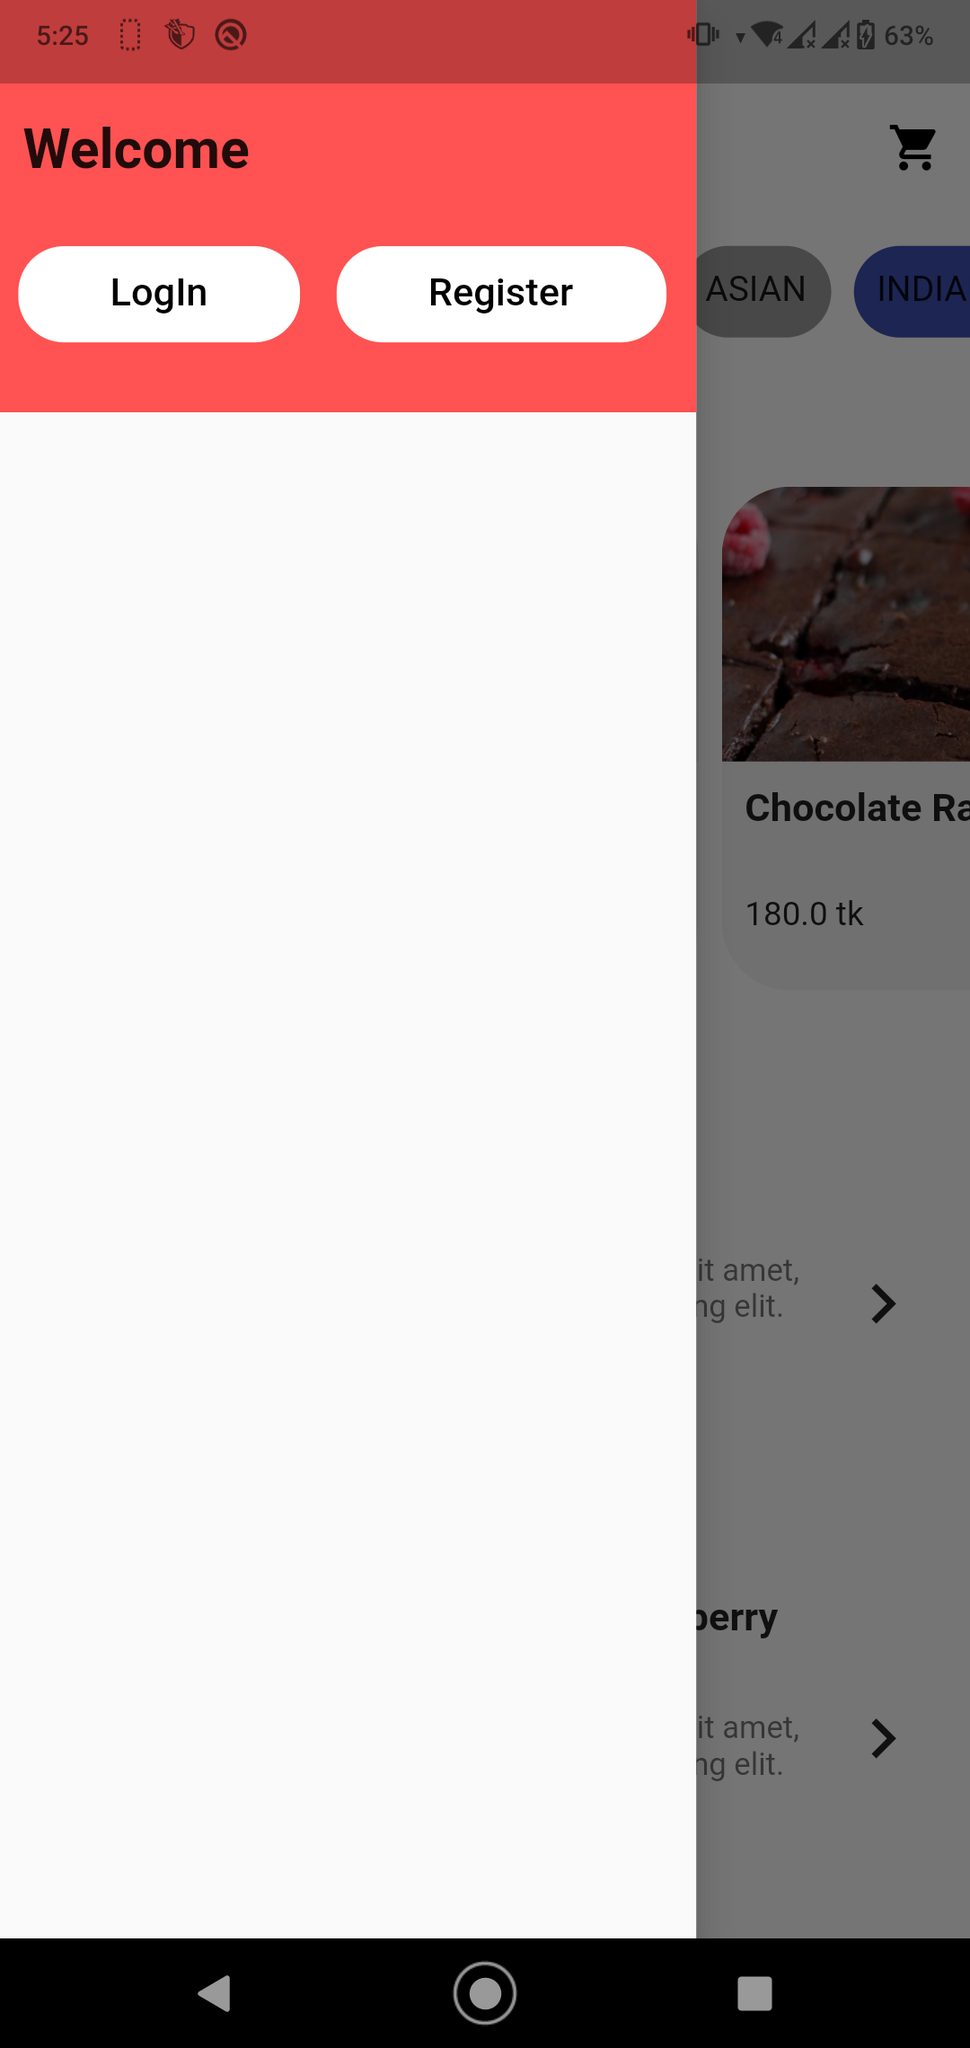
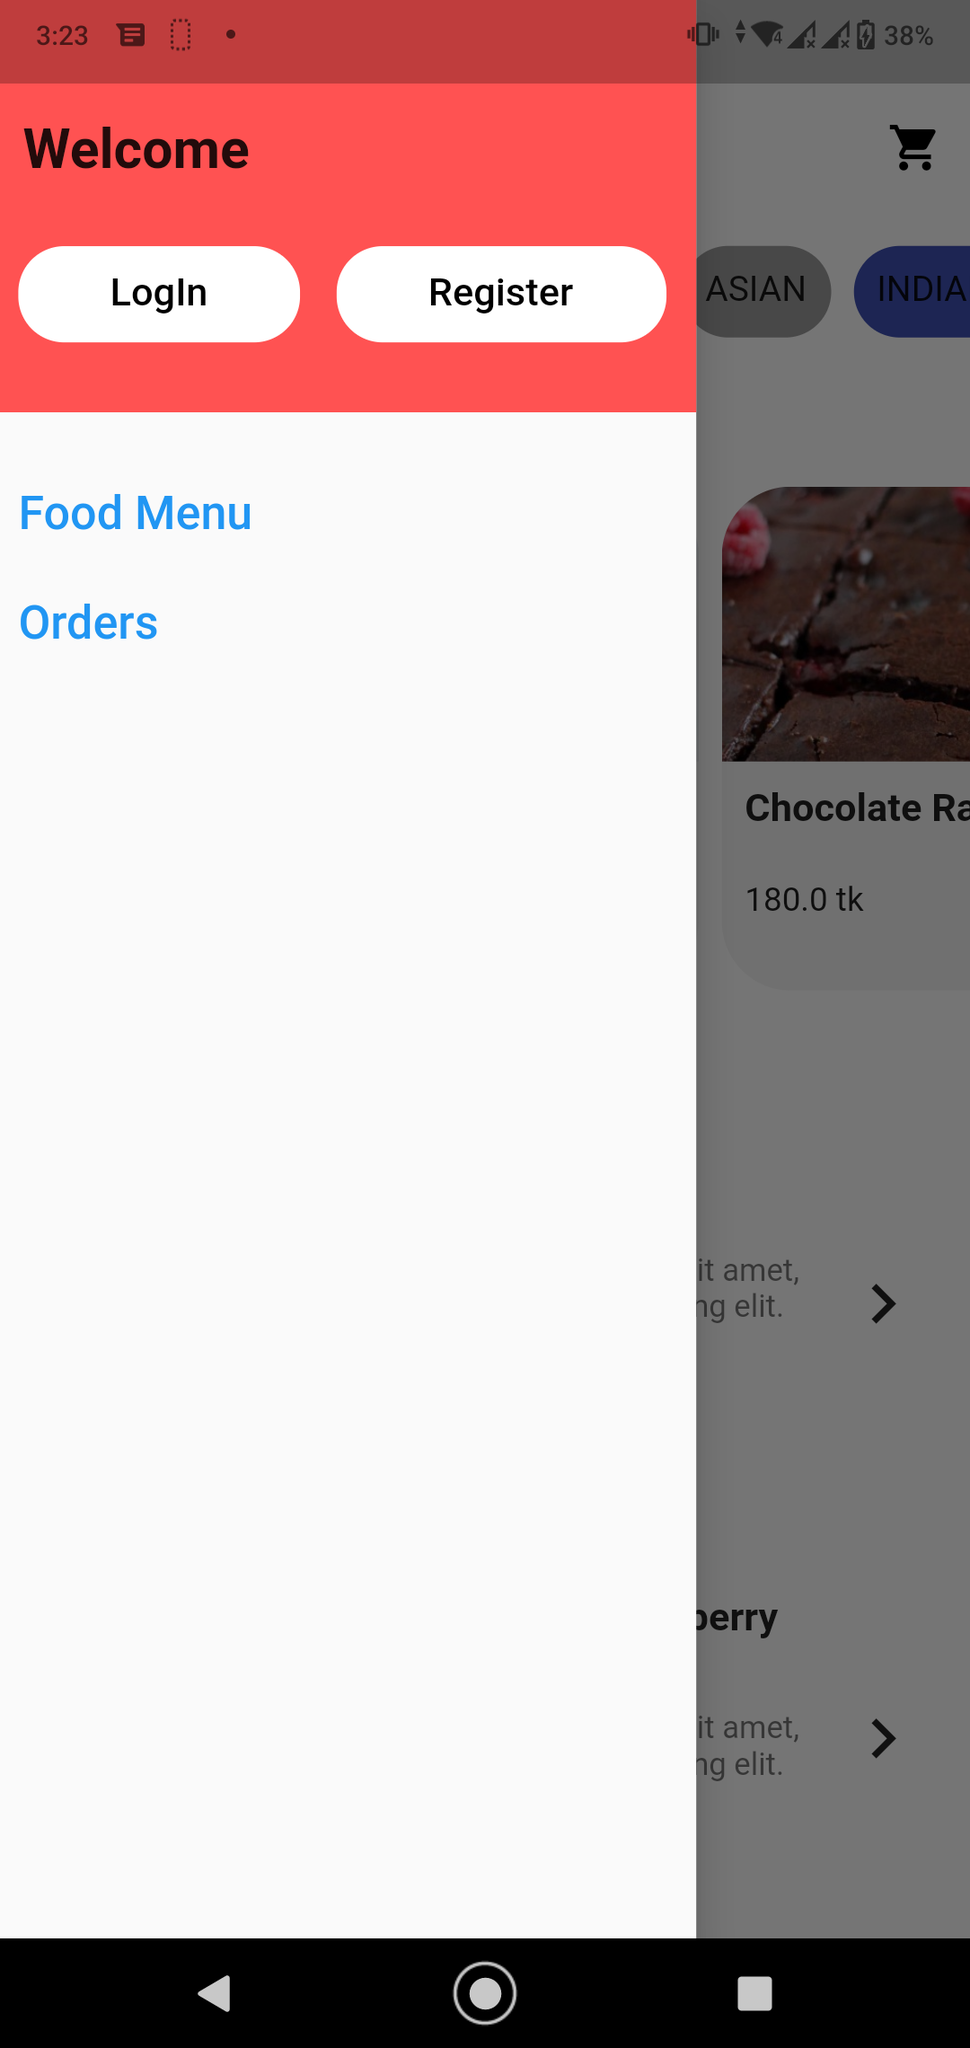
food order app

diff --git a/lib/widgets/order_list.dart b/lib/widgets/order_list.dart
@@ -1,0 +1,70 @@
+import 'dart:math';
+
+import 'package:flutter/material.dart';
+import 'package:food_order_app/providers/order_provider.dart';
+import 'package:intl/intl.dart';
+
+
+class OrderItemList extends StatefulWidget {
+  final OrderItem order;
+
+  OrderItemList(this.order);
+
+  @override
+  State<OrderItemList> createState() => _OrderItemListState();
+}
+
+class _OrderItemListState extends State<OrderItemList> {
+  var _expanded = false;
+
+  @override
+  Widget build(BuildContext context) {
+    return Card(
+      margin: EdgeInsets.all(10),
+      child: Column(
+        children: [
+          ListTile(
+            title: Text('\$${widget.order.amount.toStringAsFixed(2)}'),
+            subtitle: Text(DateFormat('dd/MM/yyyy  ')
+                .add_jms()
+                .format(widget.order.dateTime)),
+            trailing: IconButton(
+              icon: Icon(_expanded ? Icons.expand_less : Icons.expand_more),
+              onPressed: () {
+                setState(() {
+                  _expanded = !_expanded;
+                });
+              },
+            ),
+          ),
+          if (_expanded)
+            Container(
+              padding: const EdgeInsets.symmetric(horizontal: 15, vertical: 4),
+              height: min(widget.order.products.length * 20 + 30, 100),
+              child: ListView.builder(
+                  itemCount: widget.order.products.length,
+                  itemBuilder: (ctx, i) {
+                    return Row(
+                      mainAxisAlignment: MainAxisAlignment.spaceBetween,
+                      children: [
+                        Text(
+                          widget.order.products[i].title,
+                          style: const TextStyle(
+                              fontSize: 18, fontWeight: FontWeight.bold),
+                        ),
+                        Text(
+                          '${widget.order.products[i].quantity} x \$${widget.order.products[i].price}',
+                          style: const TextStyle(
+                            fontSize: 18,
+                            color: Colors.grey,
+                          ),
+                        )
+                      ],
+                    );
+                  }),
+            )
+        ],
+      ),
+    );
+  }
+}

diff --git a/lib/widgets/popular_dish.dart b/lib/widgets/popular_dish.dart
@@ -9,7 +9,7 @@ class PopularDish extends StatelessWidget {
   @override
   Widget build(BuildContext context) {
     final mealItem = Provider.of<MealItemsProvider>(context, listen: false);
-    final cat = mealItem.showCategory('c1');
+    // print(mealItem.categoryProperties('m1'));
     return SizedBox(
       height: 230,
       child: ListView.builder(
@@ -65,18 +65,16 @@ class PopularDish extends StatelessWidget {
                               '${mealItem.popularItems[i].price} tk',
                               style: const TextStyle(fontSize: 17),
                             ),
-                            Container(
-                              // height: 30,
-                              decoration: BoxDecoration(
-                                  // color: mealItem.popularItems[i].category.map((i) => null),
-                                  borderRadius: BorderRadius.circular(10)),
-                              child: Padding(
-                                padding: const EdgeInsets.all(8.0),
-                                child: Text(mealItem.popularItems[i].category
-                                    .map((cat) => cat)
-                                    .toString()),
-                              ),
-                            )
+                            // Container(
+                            //   // height: 30,
+                            //   decoration: BoxDecoration(
+                            //       // color: mealItem.popularItems[i].category.map((i) => null),
+                            //       borderRadius: BorderRadius.circular(10)),
+                            //   child: Padding(
+                            //     padding: const EdgeInsets.all(8.0),
+                            //     child: Text(mealItem.categoryProperties(mealItem.popularItems[i])[0].toString()),
+                            //   ),
+                            // )
                           ],
                         )
                       ],

diff --git a/lib/widgets/app_drawer.dart b/lib/widgets/app_drawer.dart
@@ -1,4 +1,6 @@
 import 'package:flutter/material.dart';
+import 'package:food_order_app/pages/home_page.dart';
+import 'package:food_order_app/pages/orders_page.dart';
 import 'package:food_order_app/widgets/user_button.dart';
 
 class AppDrawer extends StatelessWidget {
@@ -6,6 +8,7 @@ class AppDrawer extends StatelessWidget {
   Widget build(BuildContext context) {
     return Drawer(
       child: Column(
+        crossAxisAlignment: CrossAxisAlignment.start,
         children: [
           Container(
             height: 180,
@@ -30,9 +33,32 @@ class AppDrawer extends StatelessWidget {
                     ProfileButton('LogIn'),
                     ProfileButton('Register')
                   ],
-                )
+                ),
               ],
             ),
+          ),
+          const SizedBox(
+            height: 20,
+          ),
+          TextButton(
+              onPressed: () {
+                Navigator.of(context).pushReplacementNamed('/');
+              },
+              child: const Text('Food Menu',
+                style: TextStyle(
+                  fontSize: 24
+                ),
+              )
+          ),
+          TextButton(
+              onPressed: () {
+                Navigator.of(context).pushReplacementNamed(OrdersPage.routName);
+              },
+              child: const Text('Orders',
+                style: TextStyle(
+                  fontSize: 24
+                )
+              )
           )
         ],
       ),

diff --git a/lib/main.dart b/lib/main.dart
@@ -3,8 +3,10 @@ import 'package:food_order_app/pages/cart_page.dart';
 import 'package:food_order_app/pages/category_menu.dart';
 import 'package:food_order_app/pages/home_page.dart';
 import 'package:food_order_app/pages/meal_list_page.dart';
+import 'package:food_order_app/pages/orders_page.dart';
 import 'package:food_order_app/providers/cart_providers.dart';
 import 'package:food_order_app/providers/meal_providers.dart';
+import 'package:food_order_app/providers/order_provider.dart';
 import 'package:food_order_app/widgets/food_details.dart';
 import 'package:provider/provider.dart';
 
@@ -17,6 +19,7 @@ class MyApp extends StatelessWidget {
       providers: [
         ChangeNotifierProvider(create: (ctx) => MealItemsProvider()),
         ChangeNotifierProvider(create: (ctx) => CartProvider()),
+        ChangeNotifierProvider(create: (ctx) => OrdersProvider())
       ],
       child: MaterialApp(
           debugShowCheckedModeBanner: false,
@@ -25,7 +28,8 @@ class MyApp extends StatelessWidget {
           routes: {
             FoodDetails.routeName: (ctx) => FoodDetails(),
             CartPage.routeName: (ctx) => CartPage(),
-            CategoryMenu.routeName: (ctx) => CategoryMenu()
+            CategoryMenu.routeName: (ctx) => CategoryMenu(),
+            OrdersPage.routName: (ctx) => OrdersPage()
           }),
     );
   }

diff --git a/lib/pages/cart_page.dart b/lib/pages/cart_page.dart
@@ -1,5 +1,7 @@
 import 'package:flutter/material.dart';
 import 'package:food_order_app/providers/cart_providers.dart';
+import 'package:food_order_app/providers/order_provider.dart';
+import 'package:food_order_app/theme/colors.dart';
 import 'package:food_order_app/widgets/cart_item.dart';
 import 'package:provider/provider.dart';
 
@@ -9,9 +11,29 @@ class CartPage extends StatelessWidget {
   @override
   Widget build(BuildContext context) {
     final cart = Provider.of<CartProvider>(context);
+    final order = Provider.of<OrdersProvider>(context, listen: false);
     return Scaffold(
       appBar: AppBar(
         title: const Text('Your Orders'),
+        actions: [
+          TextButton(
+            onPressed: () {
+              if (cart.totalAmount > 0) {
+                order.addOrder(cart.items.values.toList(), cart.totalAmount);
+                  cart.clear();
+              } else {
+                ScaffoldMessenger.of(context).showSnackBar(
+                  const SnackBar(content: Text('Add minimum one item to cart')));
+              }
+              },
+              child: const Text('Order Now',
+                style: TextStyle(
+                  color: white,
+                  fontSize: 20
+                ),
+              )
+          )
+        ],
       ),
       body: Column(
         children: [

diff --git a/lib/providers/order_provider.dart b/lib/providers/order_provider.dart
@@ -1,0 +1,34 @@
+import 'package:flutter/material.dart';
+import 'cart_providers.dart';
+
+class OrderItem {
+  final String id;
+  final double amount;
+  final List<Cart> products;
+  final DateTime dateTime;
+
+  OrderItem(
+      {required this.id,
+      required this.amount,
+      required this.products,
+      required this.dateTime});
+}
+
+class OrdersProvider with ChangeNotifier {
+  final List<OrderItem> _orders = [];
+
+  List<OrderItem> get orders {
+    return [..._orders];
+  }
+
+  void addOrder(List<Cart> cartProducts, double total) {
+    _orders.insert(
+        0,
+        OrderItem(
+            id: DateTime.now().toString(),
+            amount: total,
+            products: cartProducts,
+            dateTime: DateTime.now()));
+    notifyListeners();
+  }
+}

diff --git a/lib/pages/orders_page.dart b/lib/pages/orders_page.dart
@@ -1,0 +1,25 @@
+import 'package:flutter/material.dart';
+import 'package:food_order_app/providers/order_provider.dart';
+import 'package:food_order_app/widgets/app_drawer.dart';
+import 'package:food_order_app/widgets/order_list.dart';
+import 'package:provider/provider.dart';
+
+
+class OrdersPage extends StatelessWidget {
+  static const routName = '/orders-page';
+
+  @override
+  Widget build(BuildContext context) {
+    final ordersData = Provider.of<OrdersProvider>(context);
+
+    return Scaffold(
+      appBar: AppBar(
+        title: const Text('Your Orders'),
+      ),
+      drawer:  AppDrawer(),
+      body: ListView.builder(
+          itemCount: ordersData.orders.length,
+          itemBuilder: (ctx, i) => OrderItemList(ordersData.orders[i])),
+    );
+  }
+}

diff --git a/lib/pages/home_page.dart b/lib/pages/home_page.dart
@@ -7,6 +7,7 @@ import 'package:food_order_app/widgets/menu_list.dart';
 import 'package:food_order_app/widgets/popular_dish.dart';
 
 class HomePage extends StatelessWidget {
+  
   @override
   Widget build(BuildContext context) {
     return Scaffold(

diff --git a/lib/providers/meal_providers.dart b/lib/providers/meal_providers.dart
@@ -202,4 +202,7 @@ class MealItemsProvider with ChangeNotifier {
     }
     return items.where((meal) => meal.category.contains(catId)).toList();
   }
+
+  
+  
 }
